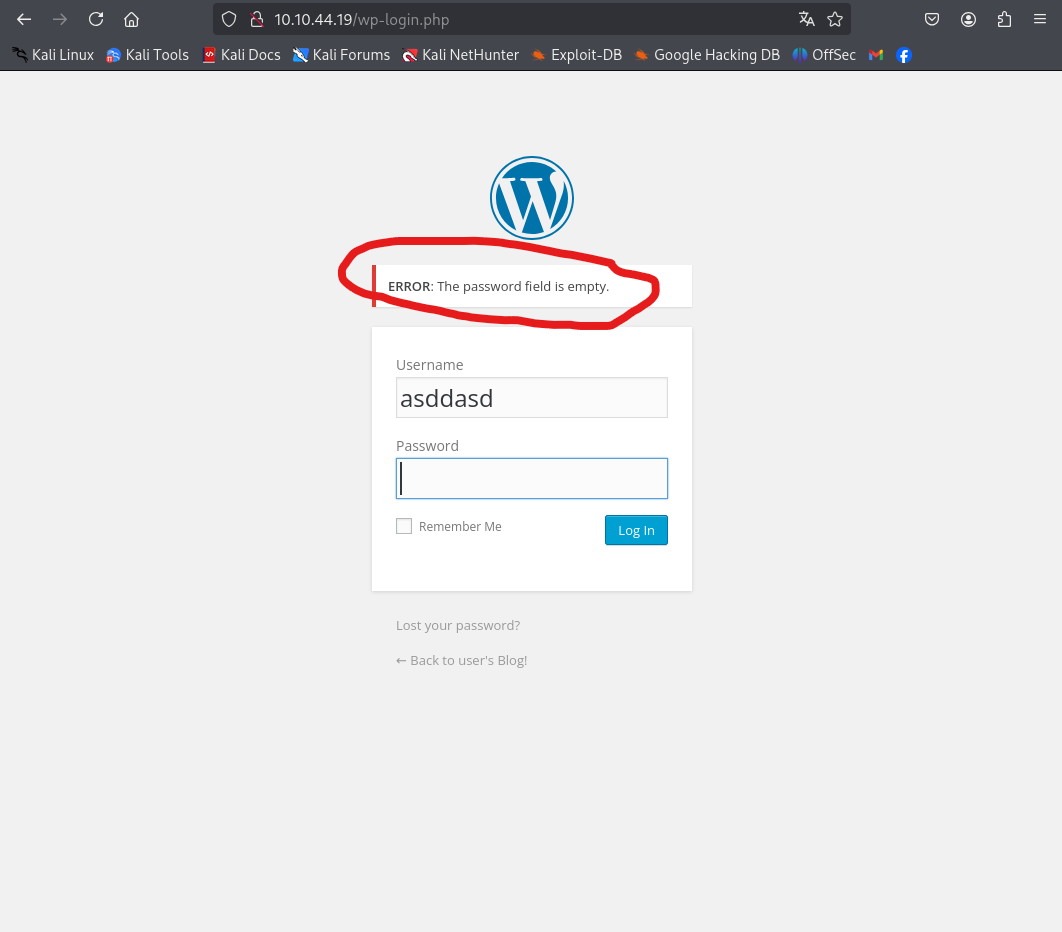
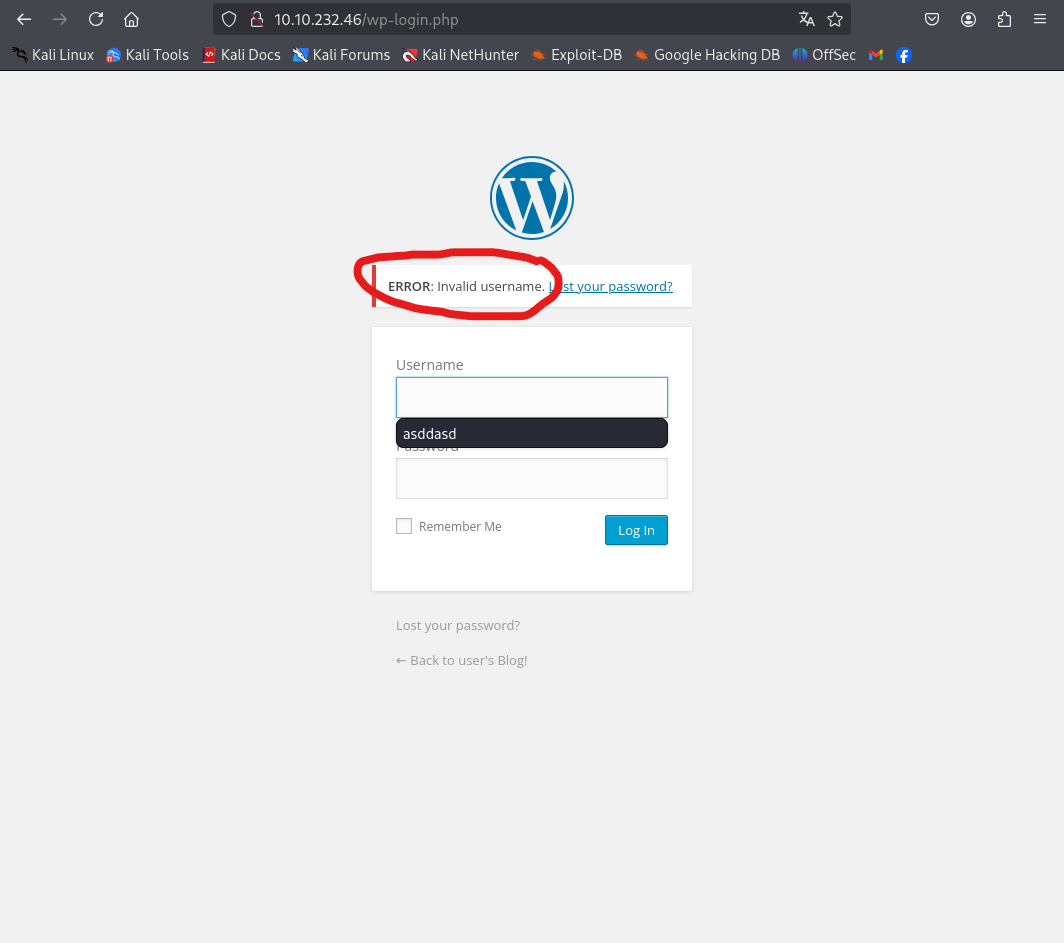
Ultimas antações mrrobot

diff --git a/PENTEST/CTFs/MRROBOT.md b/PENTEST/CTFs/MRROBOT.md
@@ -66,7 +66,11 @@ Primeiro acessamos a pagina de login e colocamos informações aleatorias para v
 
 ![wordpress login](./img/mrrobot-login-wordpress.png)
 
+Como vemos aqui, a pagina especifica se o que esta errado é o user name ou o password, podemos verificar separadamente cada um, o que é mais rapido.
+
 ### Hydra
+
+
 
 
 
